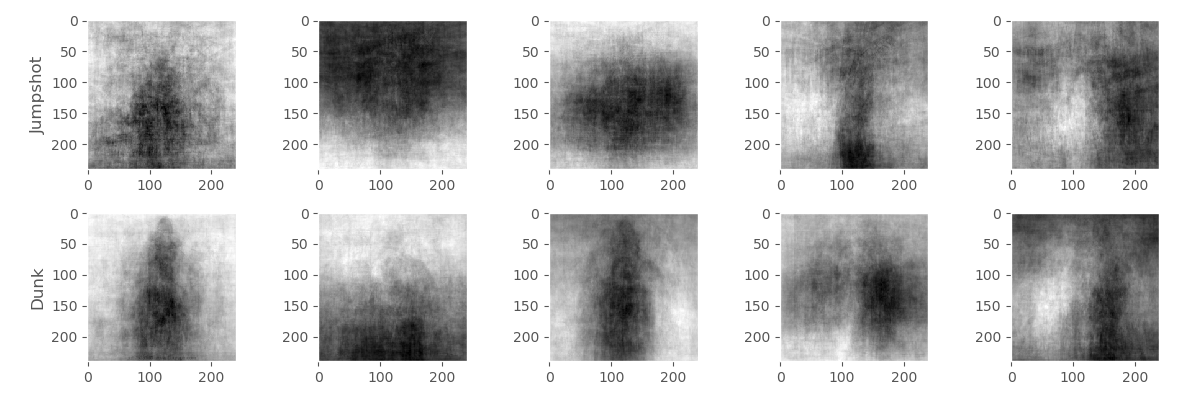
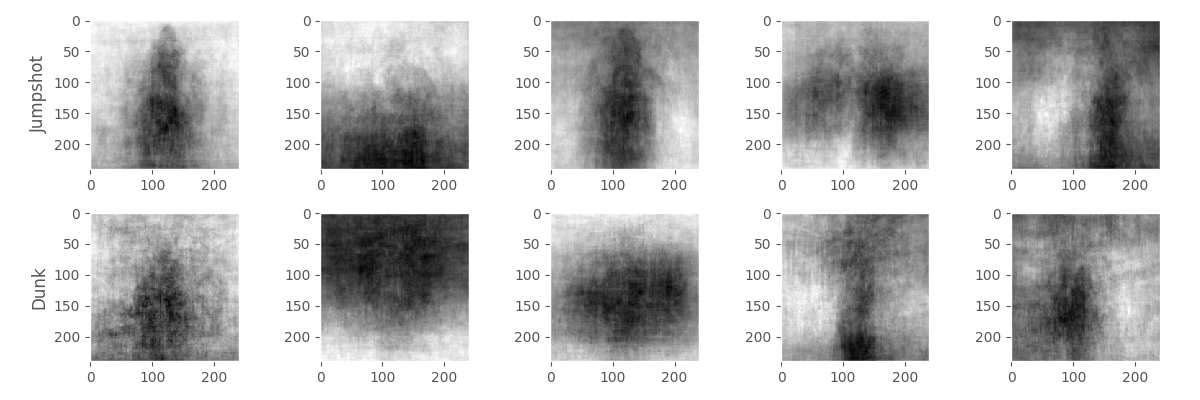
nmf

diff --git a/src/train_model.py b/src/train_model.py
@@ -23,7 +23,8 @@ def load_images_and_labels(target_labels, type):
     '''
     Loads all images from directories with names in target_labels
     a label and image array
-    TO DO: Make this work with np.load() and skimage (if possible)
+
+    TODO: Make this work with np.load() and skimage (if possible)
     '''
     images = []
     labels = []
@@ -51,10 +52,17 @@ def load_images_and_labels(target_labels, type):
     return images, labels
 
 def train_CNN(images, labels, epochs):
+    '''
+    Train the CNN with the training data
 
+    TODO: Allow other hyper parameters as inputs. Tune/add layers.
+    '''
+
+    #turn string labels into binary labels
     lb = LabelBinarizer()
     labels = lb.fit_transform(labels)
 
+    #Train test split
     X_train, X_test, y_train, y_test = train_test_split(images, labels, 
                                                         test_size = 0.20,
                                                         stratify = labels,
@@ -64,27 +72,26 @@ def train_CNN(images, labels, epochs):
     y_train = np.hstack((y_train, 1-y_train))
     y_test = np.hstack((y_test, 1-y_test))
 
-    # # Transformations not used in final model, keeping here
-    # to play with in the future
-    # ImageNet_mean = np.array([ 123.68, 116.779, 103.939 ])
-    # train_transformations = ImageDataGenerator(
-    #                     rotation_range=45,
-    #                     zoom_range=0.25,
-    #                     width_shift_range=0.2,
-    #                     height_shift_range=0.2,
-    #                     fill_mode="wrap") #constant, nearest, reflect or wrap
+    # Transformations
+    ImageNet_mean = np.array([ 123.68, 116.779, 103.939 ])
+    train_transformations = ImageDataGenerator(
+                        rotation_range=45,
+                        zoom_range=0.25,
+                        width_shift_range=0.2,
+                        height_shift_range=0.2,
+                        fill_mode="wrap") #constant, nearest, reflect or wrap
 
-    # validation_transformations = ImageDataGenerator(ImageNet_mean)  
+    validation_transformations = ImageDataGenerator(ImageNet_mean)  
 
-    # train_transformations.mean = ImageNet_mean
-    # validation_transformations.mean = ImageNet_mean   
+    train_transformations.mean = ImageNet_mean
+    validation_transformations.mean = ImageNet_mean   
 
     #load transferred learning model
     transferred_model = ResNet50(weights = 'imagenet',
                                 include_top = False,
                                 input_tensor= Input(shape=(240, 240, 3)))
 
-    #build head model
+    #build model head
     head_model = transferred_model.output
     head_model = AveragePooling2D(pool_size=(7, 7))(head_model)
     head_model = Flatten(name="flatten")(head_model)
@@ -98,15 +105,17 @@ def train_CNN(images, labels, epochs):
     for layer in transferred_model.layers:
 	    layer.trainable = False
 
+    #initialize stochastic gradient descent optimizer
     opt = SGD(lr=0.0001, momentum=0.9, decay=0.0001)
-    model.compile(loss="binary_crossentropy", optimizer=opt, metrics=["accuracy"])
 
+    #compile and fit model
+    model.compile(loss="binary_crossentropy", optimizer=opt, metrics=["accuracy"])
     history = model.fit(X_train, y_train, 
                         validation_data = (X_test, y_test),
                         epochs = epochs)
 
+    #get predictions and generate confusion matrix data
     y_pred = model.predict(X_test)
-
     con_mat = confusion_matrix(y_test.argmax(axis =1), y_pred.argmax(axis = 1))
 
     return model, history, con_mat
@@ -119,7 +128,7 @@ if __name__ == '__main__':
     images, labels = load_images_and_labels(target_labels, type = category)
     model, history, con_mat = train_CNN(images, labels, epochs = epochs)
 
-    #save model and history
+    #save model, history, and confusion matrix
     model.save('../models/{}_{}_epochs.model'.format(category, epochs))
 
     hist_df = pd.DataFrame(history.history)

diff --git a/src/plots.py b/src/plots.py
@@ -10,7 +10,7 @@ from skimage import exposure
 from skimage.color import gray2rgb, rgb2gray, rgba2rgb
 from skimage.io import imread, imread_collection
 from skimage.transform import resize
-from sklearn.decomposition import PCA
+from sklearn.decomposition import PCA, NMF
 
 from image_processing import get_all_images, get_image, images_to_array
 
@@ -109,9 +109,10 @@ def plot_pca(image_array_path, axs1, ax2, ax3, ax4, ax5):
         img = pd.Series(img.flatten())
         flat_array.append(img)
     flat_array = np.array(flat_array)
-    pca = PCA(n_components=0.5)
+    pca = NMF(n_components=10)
     pca.fit(flat_array)
     for i, ax in enumerate(axs):
+        print(pca.components_[i])
         ax.imshow(pca.components_[i].reshape(240,240),cmap = plt.cm.gray)
         ax.grid(False)
     return axs
@@ -155,23 +156,25 @@ if __name__ == '__main__':
     # plt.tight_layout()
     # plt.show()
 
-    fig, axs = plt.subplots(2,2, figsize = (12,6))
-    plot_model_results('../models/broadcast_200_epochs_history_90_acc.csv', axs[0,1], axs[1,1])
-    cols = ['Google Images', 'Broadcast Angle']
-    for ax, col in zip(axs[0], cols):
-        ax.set_title(col)
-    plot_model_results('../models/google_200_epochs_history_81_acc.csv', axs[0,0], axs[1,0])
-    plt.tight_layout()
-    plt.savefig('../plots+images/model_results')
-
-    # fig, axs = plt.subplots(2,5, figsize=(12,4))
-    # plot_pca('../data/image_arrays/broadcast_denver_dunk.npy', axs[0,0], axs[0,1], axs[0,2], axs[0,3], axs[0,4])
-    # plot_pca('../data/image_arrays/broadcast_denver_three.npy', axs[1,0], axs[1,1], axs[1,2], axs[1,3], axs[1,4])
-    # rows = ['Jumpshot','Dunk']
-    # for ax, row in zip(axs[:,0], rows):
-    #     ax.set_ylabel(row, rotation=90, size='large')
+    # fig, axs = plt.subplots(2,2, figsize = (12,6))
+    # plot_model_results('../models/broadcast_200_epochs_history_90_acc.csv', axs[0,1], axs[1,1])
+    # cols = ['Google Images', 'Broadcast Angle']
+    # for ax, col in zip(axs[0], cols):
+    #     ax.set_title(col)
+    # plot_model_results('../models/google_200_epochs_history_81_acc.csv', axs[0,0], axs[1,0])
     # plt.tight_layout()
-    # plt.savefig('../plots+images/denver_pca')
+    # plt.savefig('../plots+images/model_results')
+
+    fig, axs = plt.subplots(2,5, figsize=(12,4))
+    plot_pca('../data/image_arrays/denver_jumpshot.npy', axs[0,0], axs[0,1], axs[0,2], axs[0,3], axs[0,4])
+    plot_pca('../data/image_arrays/denver_dunk.npy', axs[1,0], axs[1,1], axs[1,2], axs[1,3], axs[1,4])
+    rows = ['Jumpshot','Dunk']
+    for ax, row in zip(axs[:,0], rows):
+        ax.set_ylabel(row, rotation=90, size='large')
+    plt.tight_layout()
+    plt.show()
+
+    # plt.savefig('../plots+images/google_pca')
 
     # # path = '../data/google_imgs/test_jumpshot/1.maxresdefault.jpg'
     # # img = get_image(path)
@@ -190,13 +193,13 @@ if __name__ == '__main__':
     # plt.show()
 
     # fig, axs = plt.subplots(2,3, figsize=(12,8))
-    # plot_avgs('../data/image_arrays/denver_jumpshot.npy', axs[0,0], axs[0,1], axs[0,2], '')
-    # plot_avgs('../data/image_arrays/denver_dunk.npy', axs[1,0], axs[1,1], axs[1,2], '')
-    # rows = ['Jump Shot','Dunk']
+    # plot_avgs('../data/image_arrays/google_jumpshot.npy', axs[0,0], axs[0,1], axs[0,2], '')
+    # plot_avgs('../data/image_arrays/google_dunk.npy', axs[1,0], axs[1,1], axs[1,2], '')
+    # rows = ['Jumpshot','Dunk']
     # for ax, row in zip(axs[:,0], rows):
     #     ax.set_ylabel(row, rotation=90, size='large')
     # plt.tight_layout()
-    # plt.savefig('../plots+images/denver_image_avgs')
+    # plt.savefig('../plots+images/google_image_avgs')
     # plt.show()
 
     # # dunk_image_list = get_all_images('../data/google_imgs/dunk')

diff --git a/src/video_processing.py b/src/video_processing.py
@@ -3,6 +3,7 @@ import os
 import time
 from urllib import request
 import cv2
+import cv2.cv2 as cv2
 import nltk
 import numpy as np
 import pandas as pd
@@ -10,9 +11,14 @@ import requests
 
 
 def make_video_data_csv(type):
-    start_page_index = 0
+    '''
+    Creates a CSV with data from highlight page links in /data/clips
 
-    # need to put these links in an external dictionary
+    type = dunk, three, denver_three, denver_dunk
+
+    TODO: put links in external dictionary
+    '''
+
     if type == 'dunk':
         link = 'https://3ball.io/query?pageIndex={}&eventmsgtype[]=1&eventmsgactiontype[]=7&eventmsgactiontype[]=9&eventmsgactiontype[]=48&eventmsgactiontype[]=49&eventmsgactiontype[]=50&eventmsgactiontype[]=51&eventmsgactiontype[]=52&eventmsgactiontype[]=87&eventmsgactiontype[]=106&eventmsgactiontype[]=107&eventmsgactiontype[]=108&eventmsgactiontype[]=109&eventmsgactiontype[]=110'
     elif type == 'three':
@@ -39,7 +45,10 @@ def make_video_data_csv(type):
     df.to_csv('../data/clips/{}/{}_{}.csv'.format(type, type, n_pages*50)) #there are 50 clips per page
 
 def download_clips(type, n_clips):
-
+    '''
+    Reads csv produced make_video_data and downloads the specificied number of clips
+    to data/clips
+    '''
     df = pd.read_csv('../data/clips/{}/{}_1000.csv'.format(type, type))
 
     links = list(df['video_url'])
